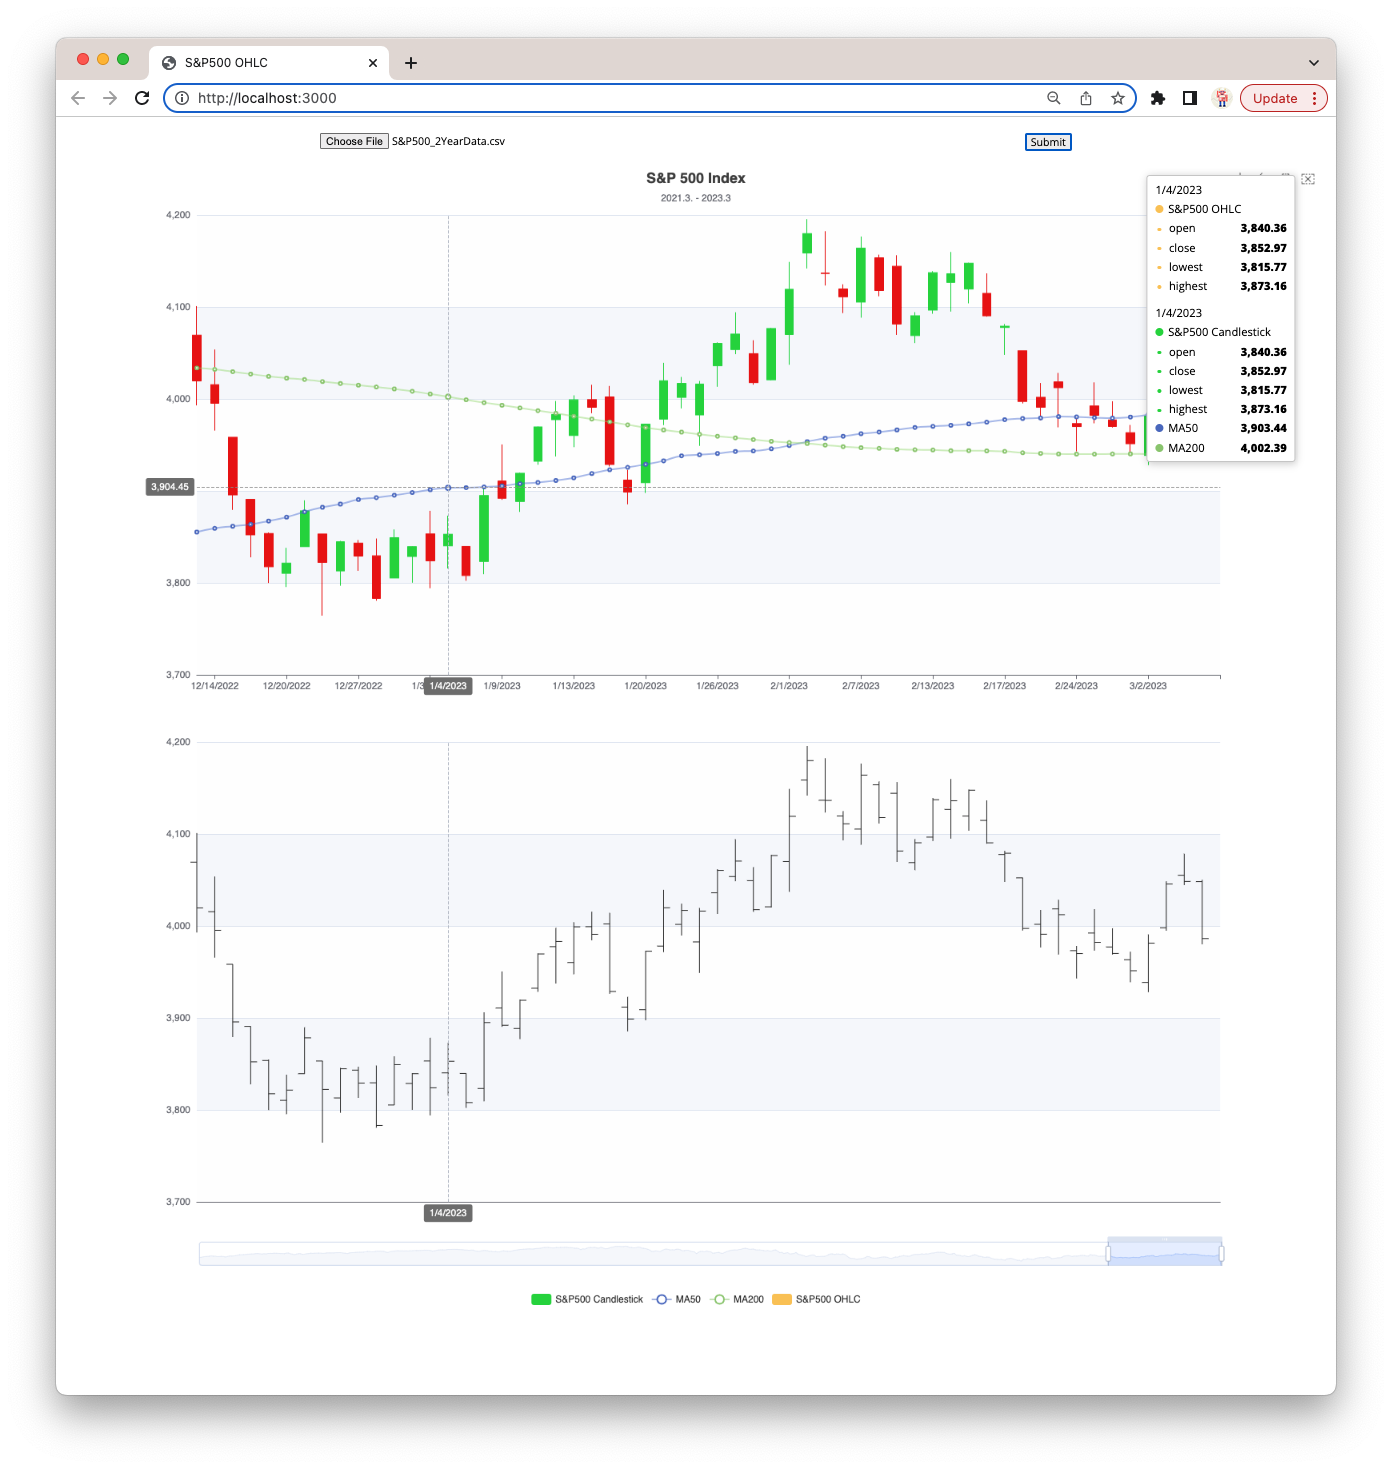
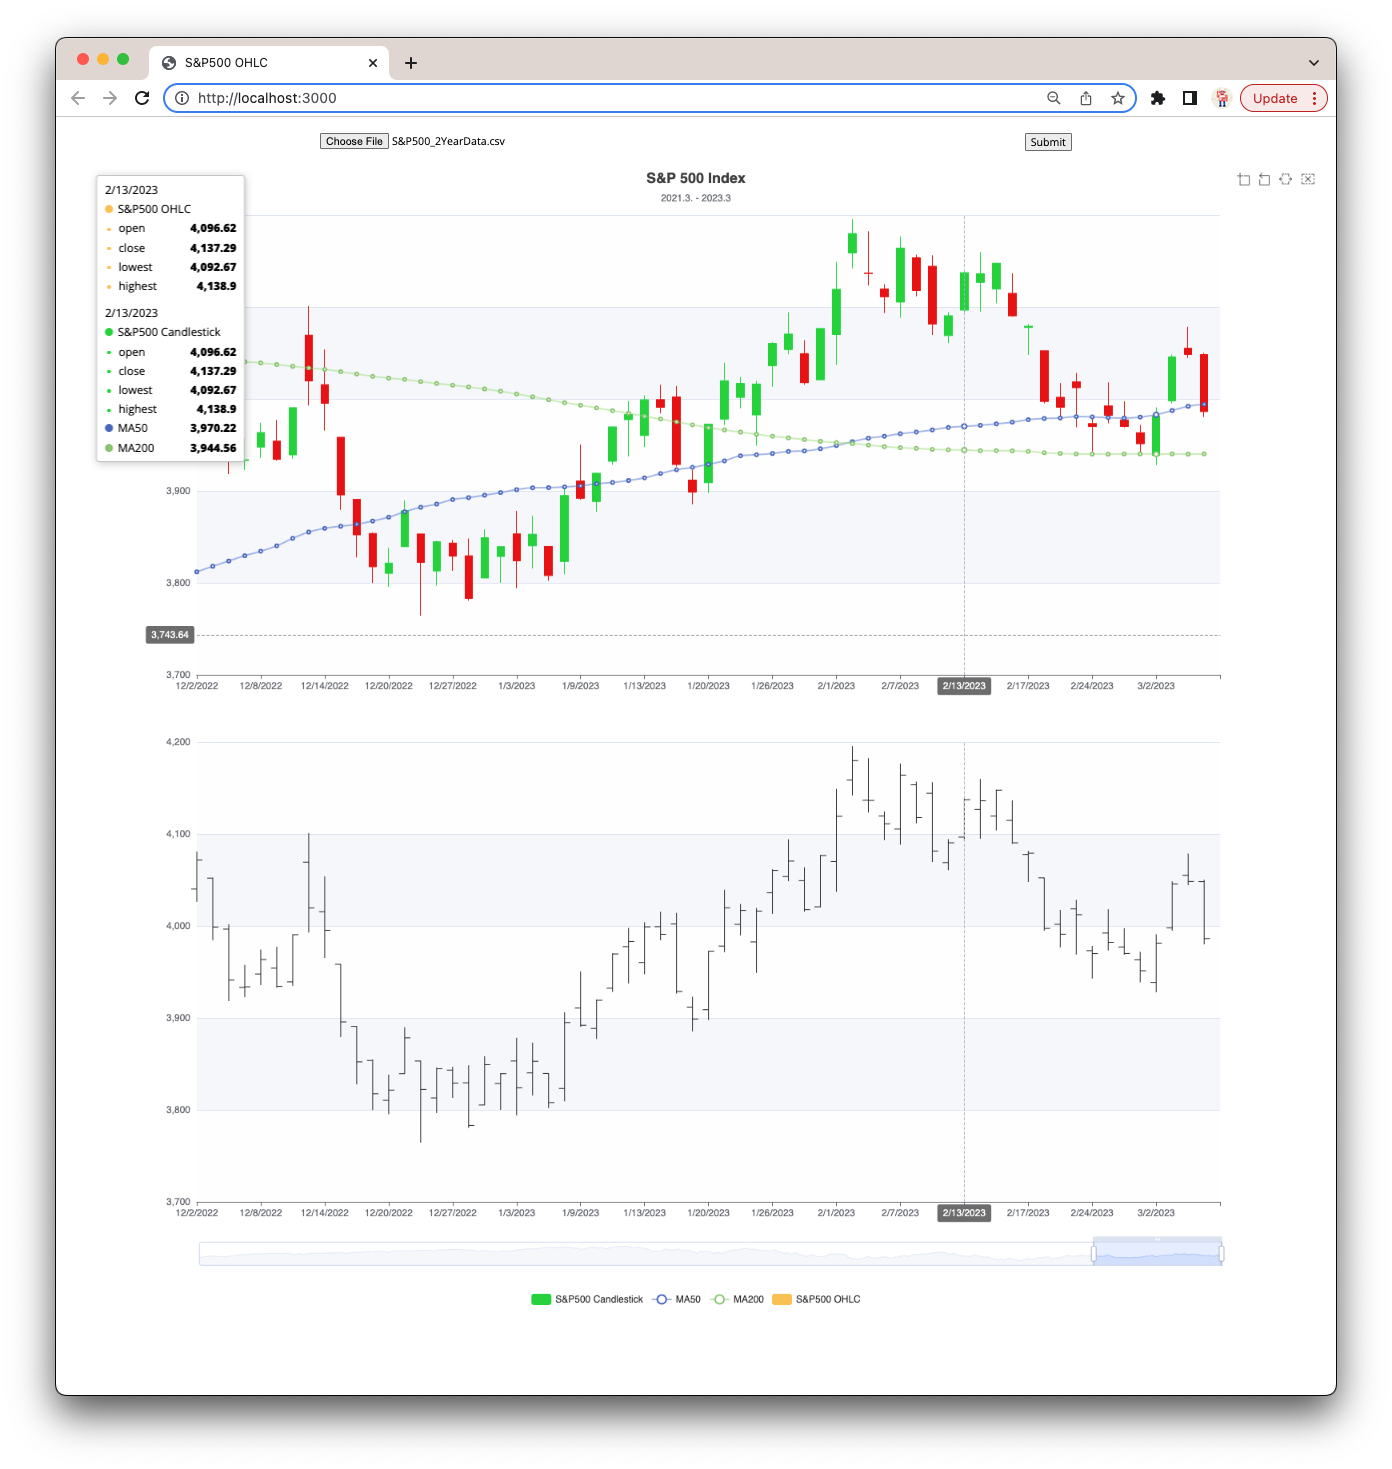
add date for the second chart

diff --git a/chart/src/App.js b/chart/src/App.js
@@ -249,15 +249,16 @@ function App() {
       },
       {
         type: 'category',
-        gridIndex: 1,
         data: dateArray,
+        gridIndex: 1,
         boundaryGap: false,
         axisLine: { onZero: false },
-        axisTick: { show: false },
         splitLine: { show: false },
-        axisLabel: { show: false },
         min: 'dataMin',
         max: 'dataMax',
+        axisPointer: {
+          z: 100,
+        },
       },
     ],
     yAxis: [
